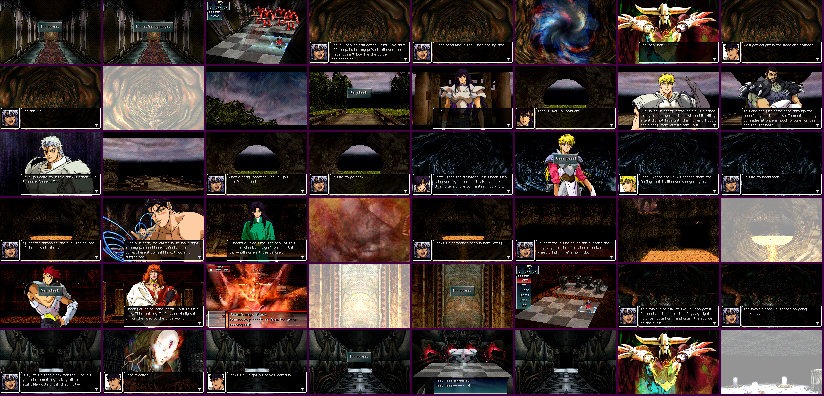
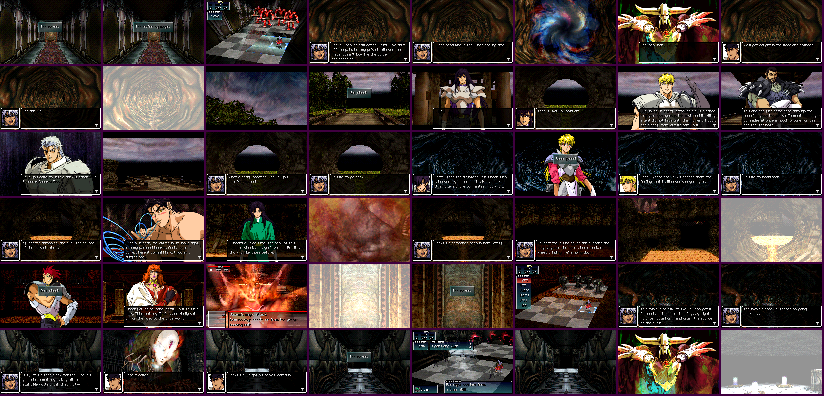
Phase 9 done: release zip v1.0 built and verified, tour re-read, status

Changed region(s): [[0.4854, 0.8182, 0.6371, 1.0]]

diff --git a/docs/status.md b/docs/status.md
@@ -2,10 +2,10 @@
 
 Updated at the end of every session. Keep it to what the next session needs; history is in git.
 
-- **Phase:** 9. Release, in progress: story pass 16 of 17 files read (next `ch4_5_to_s0372`, the last), then rebuild, new tour, release zip.
-- **Decide with the last file (non-blocking):** `魔人` is 8x "fiend", 6x "demon" in the script, and "The Demon" in the opening movie (`tools/movie_text.tsv`). `魔族` is "demon" (Ichael's race), so "fiend" keeps them apart in text; the movie would need a re-render to match. No ruling yet; I left them as they are.
-- **Story pass, how to resume (read this first):** `python -X utf8 "$(python tools/skill.py)/scripts/qa_gate.py" todo work/qa/story/manifest.tsv work/qa/story/verdicts --size 1` lists the files left, in `work/qa/story/chapters/` (`tools/pairs.py --chapters`). Whole chapters don't fit one read, so there are 17 arc files with fixed bounds (`pairs.ARCS`): a 100 KB file is about 65k tokens, and Read caps at 25k per call, so use `--offset`/`--limit` of about 280 lines. **At about 150k context a worker gets through 1 to 2 files**, so expect about 3 more workers (the `ch1_2` and `ch1_3` workers fit 1 file each, the `ch1_4`, `ch2_1` and `ch2_3` workers fit 2 by reading only the chapter's part of the synopsis and the top of the glossary; the `ch3` worker read 3 and ran past the limit, so stop at 2); each one: read the brief, `docs/style-reference.md`, `glossary.md` rulings only if not already known, then files in order. For each file: write a fix file of `id English`, run `tools/batches.py fix FILE` (exit 1 means **nothing** applied; lint wants every JP name kept in the English; a page break the JP has must stay as ` | ` in the fix line, or the page is merged), `tools/pairs.py --chapters`, `qa_gate.py init work/qa/story/manifest.tsv work/qa/story/chapters --glob "*.txt"`, then write `work/qa/story/verdicts/<file>.tsv` (`<file><TAB>ok|fixed<TAB>note`) **after** init, or it counts as stale. Fix Minors with the file too, so no later polish round voids a verdict; say in the note that the reader is the build worker, not independent. Then commit, push, and when near 150k send `worker_done --outcome failed` with body starting `context limit, resume from docs/status.md`. `work/` is gitignored and lives on this machine; verdicts stay there. `codex exec` is out of quota until 2026-11-11 13:07 (not re-checked 2026-11-07, by the date). A JP line opening with a bare `！` must not become an English line opening with `! `: all 22 were replaced by interjections in the `ch1_3` session, so a new one is a regression (`grep -c '^! ' work/qa/story/chapters/*.txt`); the same goes for `? ` (6 replaced in the `ch1_4` session, 0 left). That fix also touched `ch1_1` and `ch1_2`: their verdicts were rewritten after `init`. Terms settled for consistency: `姉君` = "elder sister", `暴凶` = "savage", `念波` = "mind waves", `西の塔`/`西の尖塔` = "western spire"; check later files against them. Common Minors so far: Undine lines losing their drawn-out vowels, romanized cries (`Uwoh`, `Uho`, `Uooh`, `Pyiiin`: use English interjections), generated pages ending on a sentence fragment (reword so the tool breaks at a full stop; `batches.sentence_pages` only breaks there if the sentences before it fill at least half the box's rows, so make the first sentence longer or the line short enough for one page).
-- **After the story pass:** text changed since the tour (87 `--` lines, Agyo/Ungyo, story fixes), so `build.py`, then the English tour, `qa_gate.py init work/qa/manifest.tsv ... --build build/bastard_en.bin`, re-read changed sheets on full-size pages, add `verdicts/recheck_<n>.tsv`; then `python -X utf8 tools/release.py 1.0`. `tools/release.py` is written and each part but the final patch has been run alone: `jp_left` is clean (all 99 EXE runs and 5 in table 392 are debug, card or `keep_jp.txt` slots; the half-width runs are MIPS code noise, so that open item is closed), debug off passes. **The patch, re-apply and zip steps have never run.** README is filled.
+- **Phase:** 9. Release done: `release/Bastard_EN_v1.0.zip` built and verified (patched SHA-1 `2531b953c79d538221fc24e582b3c79b9311e0e8`, CRC32 `0a1376e4`). Publishing is the owner's call; nothing is released yet.
+- **Phase 9 close:** `tools/release.py 1.0` ran end to end, exit 0: build, tests 107 passed, smoke, `verify_build` 0 problems, `batches check` 0 of 12,783, `jp_left` clean, `qa_gate` tour 77/77 (`recheck_3.tsv`) and story 17/17, `textcover` 8,646 shown + 3,858 waived, polish list empty, README, debug off, xdelta, re-apply. The patch taken back out of the zip and applied to a clean `rom/*.bin` gives the same SHA-1. Zip holds patch + `PATCHING.txt` only. **Not independent:** the story pass and all visual verdicts were read by the build workers, not a separate reviewer (Orca refuses nested workers, `codex exec` out of quota until 2026-11-11 13:07). Story files: `work/qa/story/chapters/`, verdicts beside them; `work/` is gitignored and lives on this machine.
+- **Last session:** read `ch4_5`, the last story file: no Critical or Important, 23 Minors fixed. `魔人` is now "fiend" everywhere including the opening movie (D11, glossary row); item `魔人の呪紋符` became `Fiend Rune Charm`. Re-read the 14 sheets the new tour changed, at full size, all ok. Lines changed in `ch4_5` were width-checked by `batches.py`, not seen on screen: the warp proofs show each event's first pages only, and the ending's last line (`s0369_05164`) was not among them. **Credit `Exective Producer`** in the staff roll is unedited game art, so it looks like the original's own typo; not compared with the original on screen, left as is.
+- **If text changes after this:** `build.py`, `qa_tour.py build/bastard_en.cue`, `qa_gate.py init work/qa/manifest.tsv work/qa/tour --build build/bastard_en.bin`, `qa_full.py`, re-read changed sheets, add `verdicts/recheck_<n>.tsv`; for story text also `pairs.py --chapters`, `qa_gate.py init work/qa/story/manifest.tsv work/qa/story/chapters --glob "*.txt"`, re-write the affected verdicts after init; then `release.py VERSION` (`--force` to replace). Fix files: `id English` via `tools/batches.py fix FILE`; keep JP page breaks as ` | `.
 - **Phase 8 close:** Phase 8 closed on build `a7b527b09e18699d`: `qa_gate.py check work/qa/manifest.tsv work/qa/verdicts` exits 0 (77 of 77 sheets, `read_2.tsv`, `recheck_1.tsv`). `tools/batches.py check` 0 problems in 12,783 entries; `tools/verify_build.py` 0 problems; `tools/check.py` 107 passed; smoke passes; `textcover.py` exits 0 **with 3,858 of 12,504 strings waived** (see below). The verdicts were read by the same worker that fixed the bugs, in one session, not by an independent reviewer: Orca refuses nested workers and Codex is out of quota. p00-p16 were also reviewed by the same worker: every `work/qa/review/p*.log` is a Codex quota error, so independent review waits for the story pass.
 - **Last session, phase 8 close:** read 77 of the 83 unique full-size pages (19 of the 102 are byte-identical repeats of the prologue); `title_menu`, `battle_commands`, `camp_character_page` and the 3 card pages keep last session's verdicts, read on an earlier build, sheet bytes unchanged. **The pages only hold the frames the tour shot:** 10 of the 26 characters in `camp_chars_all` and about 40% of the item rows in `camp_items_all` were seen; the rest are covered by the width lint and forced print, not by eye. Three bugs found and fixed: (1) **stray `e` in Selected Target** on long enemy names: `ov1_479a8` prints from byte strlen(name), so 11 dots ran off the string; now 22 dots, with a test (`docs/re/windows.md`). (2) **3-row battle lines lost their first row** under the fixed top row (`Dorsal Archer shouted, and a` never shown): 5 lines rewritten, `batches.box` now allows 2 rows. (3) `Go on ahead?` sat 3 px right, one pad space removed. `inkbox.py` readings (rects inside the box, `--diff 100`): `Go on ahead?` 18/19, buttons 17/16, `Save?` 38/37, `You can't save here.` 6/8, camp row 6/8. **One choice box doesn't pass as measured:** script choice `Better not` (`ev_1_03_0007`) reads 5/13. I judged it not a bug: options are left-aligned rows of different lengths, and the box seems to round up in 12 px cells. That is **not compared with the original**: the warp proof on the original missed the box. Compare it if a choice scene is routed there. `Head to %s?`, `Leave %s?` are left-aligned by the standing rule. Not reached, so not measured: battle `Change  Keep` and the discard prompt.
 - **Before that, visual QA at full size:** Tour sheets are half or third scale, unreadable, so `tools/debug/qa_full.py` makes full-size pages (`work/qa/full/`, mapped in its docstring and in `docs/visual-qa-brief.md`). **`qa_tour.py --out work/qa/tour_jp` overwrites the English frames in `work/qa/warp`; don't re-run it before the verdicts.** The tour is deterministic: 58 of 58 sheets came out byte-identical on a re-run. Read on the build before the fixes: all 416 event proofs, the 79 map cards, the 73 first battles, title, camp page, field prompts, battle commands. Found and fixed: (1) **battle log overprint**, `[01]` lines are the log's fixed top row (later rows scroll under it, on the original too) and a `{n}` in one printed the rest over its start (`attack! :oji's magic`) on every spell and special move; 19 lines reworded to one row, `batches.box` enforces 1 row, seen fixed on `ev_1_18_0001`. Group wording is now `%s's Unison magic!`, `%s's Chain art!`, and `%s's ground magic!` for both solo and group. (2) **Battle rows wrap at a glyph starting at x 216**, not 228 (`ov1_0340c` left `f` alone on a row): `ov1` budget now 216, reflowed. (3) **One-word last lines**, any length now, not only under 6 characters. (4) **Pages ending mid-sentence** now end at the page's last full sentence if that leaves it half full (`batches.sentence_pages`). 1,070 lines changed by (2)-(4), breaks only. **Not yet known:** `%M` printed nothing in the enemy casts seen, so its width is set to 0 (shortcut comment in `batches.py`); check a player spell (`ov1_04380`, `D.S.'s magic attack! %M`) when the `Arts` route is found. Earlier notes below that mention `%s's magic{n}attack! %M` are about the old text.
@@ -14,10 +14,9 @@ Updated at the end of every session. Keep it to what the next session needs; his
 - **Done:** Step 0, phases 1-7. Phase 5: font and hook (`fonts/vwf12.txt`, `tools/engine.py`), insertion (`tools/insert.py`), marker build (`build.py --marker`, `--qa FILE`), width gate (`docs/re/windows.md`, per-line box widths in `tools/windows.json`, from `tools/debug/tour_report.py`).
 - **Phase 6 added:** `tools/batches.py` (split, check, merge, fix, fit; wraps to the real pixel budgets and adds pages), `tools/item_text.py` (stat-sheet descriptions, generated), `tools/enemy_text.py` + `tools/monsters.tsv` (enemy names, encounter labels), `tools/patch_out.py` (edit lines of an out file), `docs/translator-brief.md`, `docs/style-reference.md`, `docs/synopsis.md`, glossary filled.
 - **Next, in order:**
-  1. **Phase 9, done when** the skill's phase 9 row holds (`references/pipeline.md` §Release). A text fix after this means a rebuild, a new tour and `qa_gate.py init` (unchanged sheets keep their verdicts, and only 1-3 changed per fix so far), then re-read the changed sheets on full-size pages and add `verdicts/recheck_<n>.tsv`.
-     a. Carried from phase 8, still not on screen, for the owner's report: the `M`/`A` icons (entry 5) in a battle or skill list: `camp_character_page` shows the equipment page, and the `Arts` list route isn't found (`play.py` from `battle_party`: a third circle after `Move` ends the move instead, so step one press at a time); `Formation 0-3` trailing pads (M3) and the blanks rule; zone names `ov1_00cb0`-`ov1_00d34` (`ov1_00d14` `Magic Defense Down Zone` is the longest, allowed 200 px, where they draw is unknown); ov2 strings still allowed 212 px; `%M` in a player spell (width set to 0, shortcut comment in `batches.py`). One more try this session: `ev_4_07_0700` offers a command list with `Arts` lit, but its savestate lands past that menu and level 1 D.S. dies; a `--frames` earlier than the 4500 end would stop at the menu.
+  1. Nothing left in the run. Owner: review `Waiting on the user`, then publish if wanted (`references/pipeline.md` §Publish).
+     a. Still not on screen, carried from phase 8: the `M`/`A` icons (entry 5) in a battle or skill list: `camp_character_page` shows the equipment page, and the `Arts` list route isn't found (`play.py` from `battle_party`: a third circle after `Move` ends the move instead, so step one press at a time); `Formation 0-3` trailing pads (M3) and the blanks rule; zone names `ov1_00cb0`-`ov1_00d34` (`ov1_00d14` `Magic Defense Down Zone` is the longest, allowed 200 px, where they draw is unknown); ov2 strings still allowed 212 px; `%M` in a player spell (width set to 0, shortcut comment in `batches.py`). One more try this session: `ev_4_07_0700` offers a command list with `Arts` lit, but its savestate lands past that menu and level 1 D.S. dies; a `--frames` earlier than the 4500 end would stop at the menu.
      b. `camp_chars_all` still times out **on the marker build only**, at the fourth character. The `0x20202020` over the old ring was the camp's own name buffer (800C47B0, 60-byte alloc, spaces then the name), so the heap had reached the ring: not a smash, and the ring now sits at 8000C400. The later hang is not traced: marker fields fill their whole room and English ones don't. English passes this scene, and its sheet (`menu_camp_chars_all_*`) shows 10 of the 26 characters, and those fit (longest `Ran Di-Rose Stein Neubau`).
-  2. Gates for phase 9: the story pass (`docs/story-reviewer-brief.md`, chapter files) is not done, and `docs/polish.md` must have no unticked line. `codex exec` is out of quota until 2026-11-11 13:07; before then, review by yourself in a fresh read-only pass.
   **Review pass, how it ended:** fixes go through `tools/batches.py fix FILE` (lines `id English`, no outer codes and no `{n}`: it wraps; covers repeats, writes `script/` only), so `work/tl/*.out.tsv` hold old text: **don't `merge --overwrite`**.
 - **To test in phase 8, not yet on screen:** `%M` after a space (`%s's magic{n}attack! %M`). `ov1_0443c` `%s's defense{n}magic! %M` did print on the marker build: `battle_party` with `ITEMS=501 ITEM_COUNT=5`, then circle x3, down x4 (Orbs), circle x3, then mash circle. The same route on English drifted to a normal attack, so the English line is still unseen: walk it with `play.py` from `work/states/bp_items.state` (regenerate it first if the build changed); `ov1_01220` `Change  Keep` and `ov1_011e4` `For %s's %d-person %s,` (a plan with a Unison or Chain); `ov2_004b8` + `ov2_004bc` (`has` + `it equipped`: an item another member wears); `ov2_00560` `Yes  No  All` (discard prompt: full inventory). Find the inventory RAM and add scenes. Build stats: `moved_to_exe` 129, `exe_free_left` 47,559, own free `ov1` 5,772, `ov4` 0.
 - **Seen and passed in phase 7:** battle log from start to win (`battle_win`: attacks, counters, damage, EXP), `battle_commands` (Form, Swap, formation name, information box), camp commands (Items, Self, Plan, Back), the format prompt on a blank card (`ov2_00ac8` + `ov2_00af0`), the save list. Ring limit measured with `work/qa/ring_stress.json` (`docs/re/windows.md`): 288 bytes of dialogue render whole, 302 lose text on page 2; `batches.RING` is now 640 and 288.
@@ -29,4 +28,4 @@ Updated at the end of every session. Keep it to what the next session needs; his
 - **Setup on a new machine:** `git config core.hooksPath tools/hooks`, `pip install numpy scipy pillow keystone-engine unicorn capstone`, `fetch_emu.py pcsx`, `fetch_emu.py psx-bios`, `tools/disc.py extract`, `tools/rbb.py unpack`. The first build after a change to `tools/movie_text.*`, `tools/mdec.py` or a font renders the movies for about 3 minutes (cached in `work/fmv/`).
 - **Step 0 gaps:** PCSX-Redux GUI keyboard input not tested (headless agent; scripted input and Lua work). `tools/emu-config/` not created: emu.py writes its settings each run.
 - **Open bugs:** Unexplained flake: 5 emulator exits in about 2,000 scene runs, each logging `unknown GPU data word: 000a5b3c` or crashing on exit (0xC0000374, exit -1). Four came at once on map 4_09 and one on `ev_2_08_0100`, during heavy parallel runs. All passed on re-run; `map_4_09_1` passed 3 more times on the marker and 3 on the original with no such line. Not traced, so a real cause is not ruled out: watch for it in phase 8. `battle_boss` also hit `emu exit 124` in a 6-job parallel dynarec run and passed alone (review M7); `battle_win` timed out at 280 s under the interpreter, probably from speed, not re-run.
-- **Waiting on the user:** Non-blocking: **the text waiver**, 3,858 of 12,504 strings are waived as `not reached`, and the skill's rule is to waive only what is shown unreachable; the release's owner should rule on it. **The end card** (`ending_thanks`, end of both endings) is brush calligraphy, probably hiragana `おわり`, over an English `THANK YOU!!`: left as art by default; tell me if you want it redrawn. The earlier survey listed it under "no Japanese seen", now corrected. Correct any name spelling you prefer (`glossary.md`, reasons in D9). The battle HUD's name plate is game art and reads `VIE`, while the text says `Vai` (D9): tell me if you want the art redrawn or the text changed. Movie #162's second page `るーしぇ` is rendered as `Lucien`, the opening's `魔人` as `The Demon`, matching the script.
+- **Waiting on the user:** Non-blocking: **the text waiver**, 3,858 of 12,504 strings are waived as `not reached`, and the skill's rule is to waive only what is shown unreachable; the release's owner should rule on it. **The end card** (`ending_thanks`, end of both endings) is brush calligraphy, probably hiragana `おわり`, over an English `THANK YOU!!`: left as art by default; tell me if you want it redrawn. The earlier survey listed it under "no Japanese seen", now corrected. Correct any name spelling you prefer (`glossary.md`, reasons in D9). The battle HUD's name plate is game art and reads `VIE`, while the text says `Vai` (D9): tell me if you want the art redrawn or the text changed. Movie #162's second page `るーしぇ` is rendered as `Lucien`, the opening's `魔人` as `The Fiend`, matching the script. `魔人` as "fiend" (D11) is the worker's choice: say if you prefer "demon".

diff --git a/README.md b/README.md
@@ -1,7 +1,7 @@
 # Bastard!! Utsuronaru Kamigami no Utsuwa English translation
 
 Unofficial English fan translation of **Bastard!! Utsuronaru Kamigami no Utsuwa** (PlayStation, SETA, 1996, SLPS-00542): the source text and tools
-that build the patch. Work in progress: see `docs/status.md`.
+that build the patch. Current state: `docs/status.md`.
 
 **Just want to play?** Download the patch from [Releases](../../releases) and follow its README. This repository holds
 no game data you can play; you need your own dump of the Japanese game.
